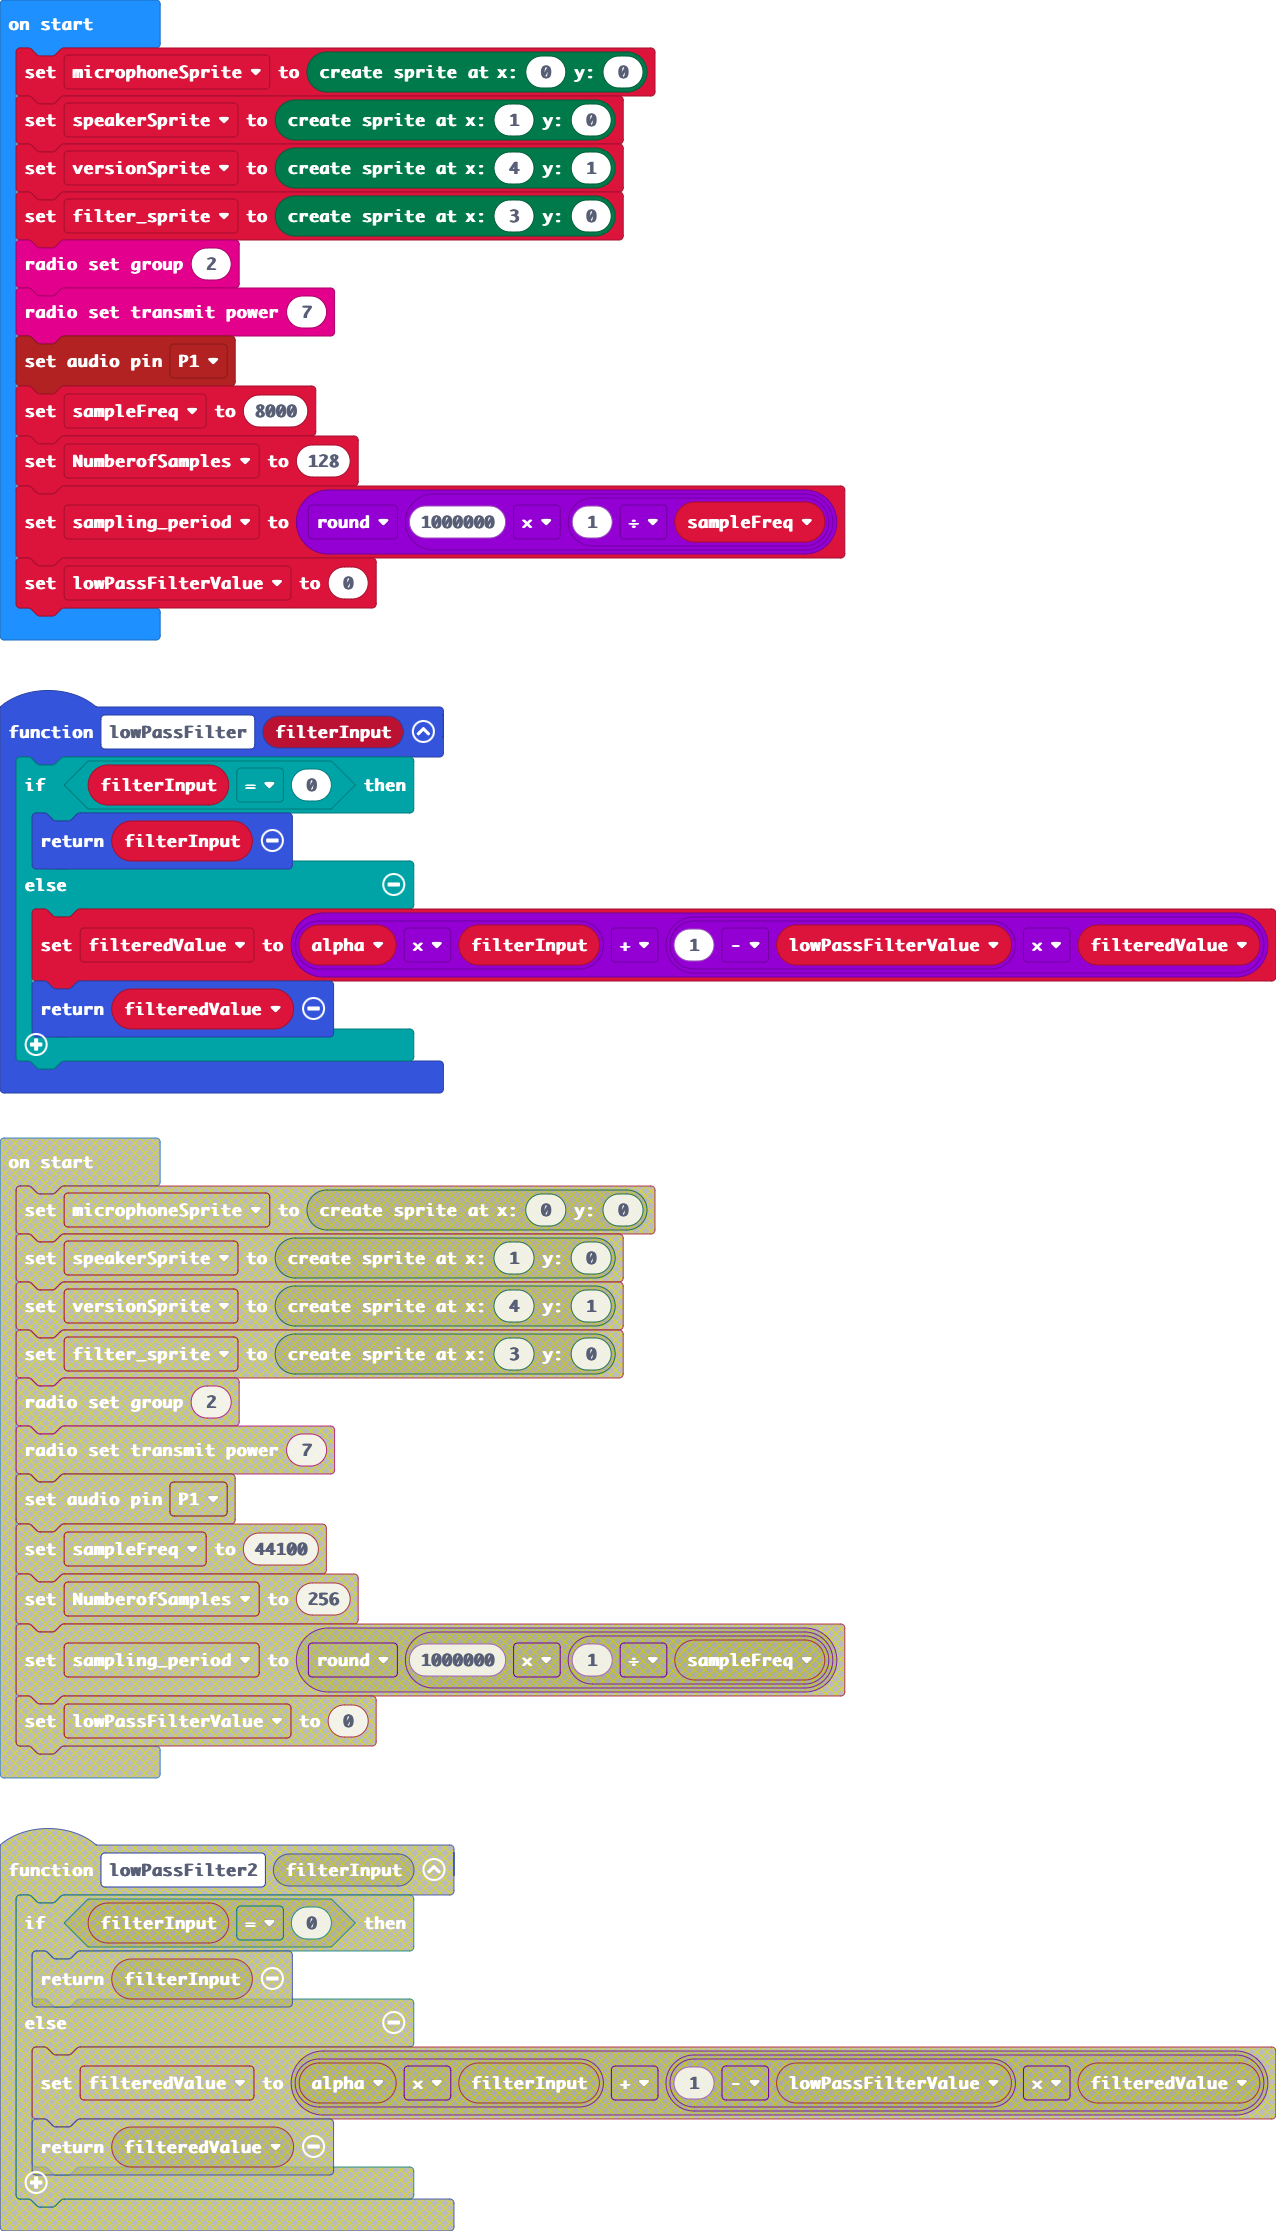
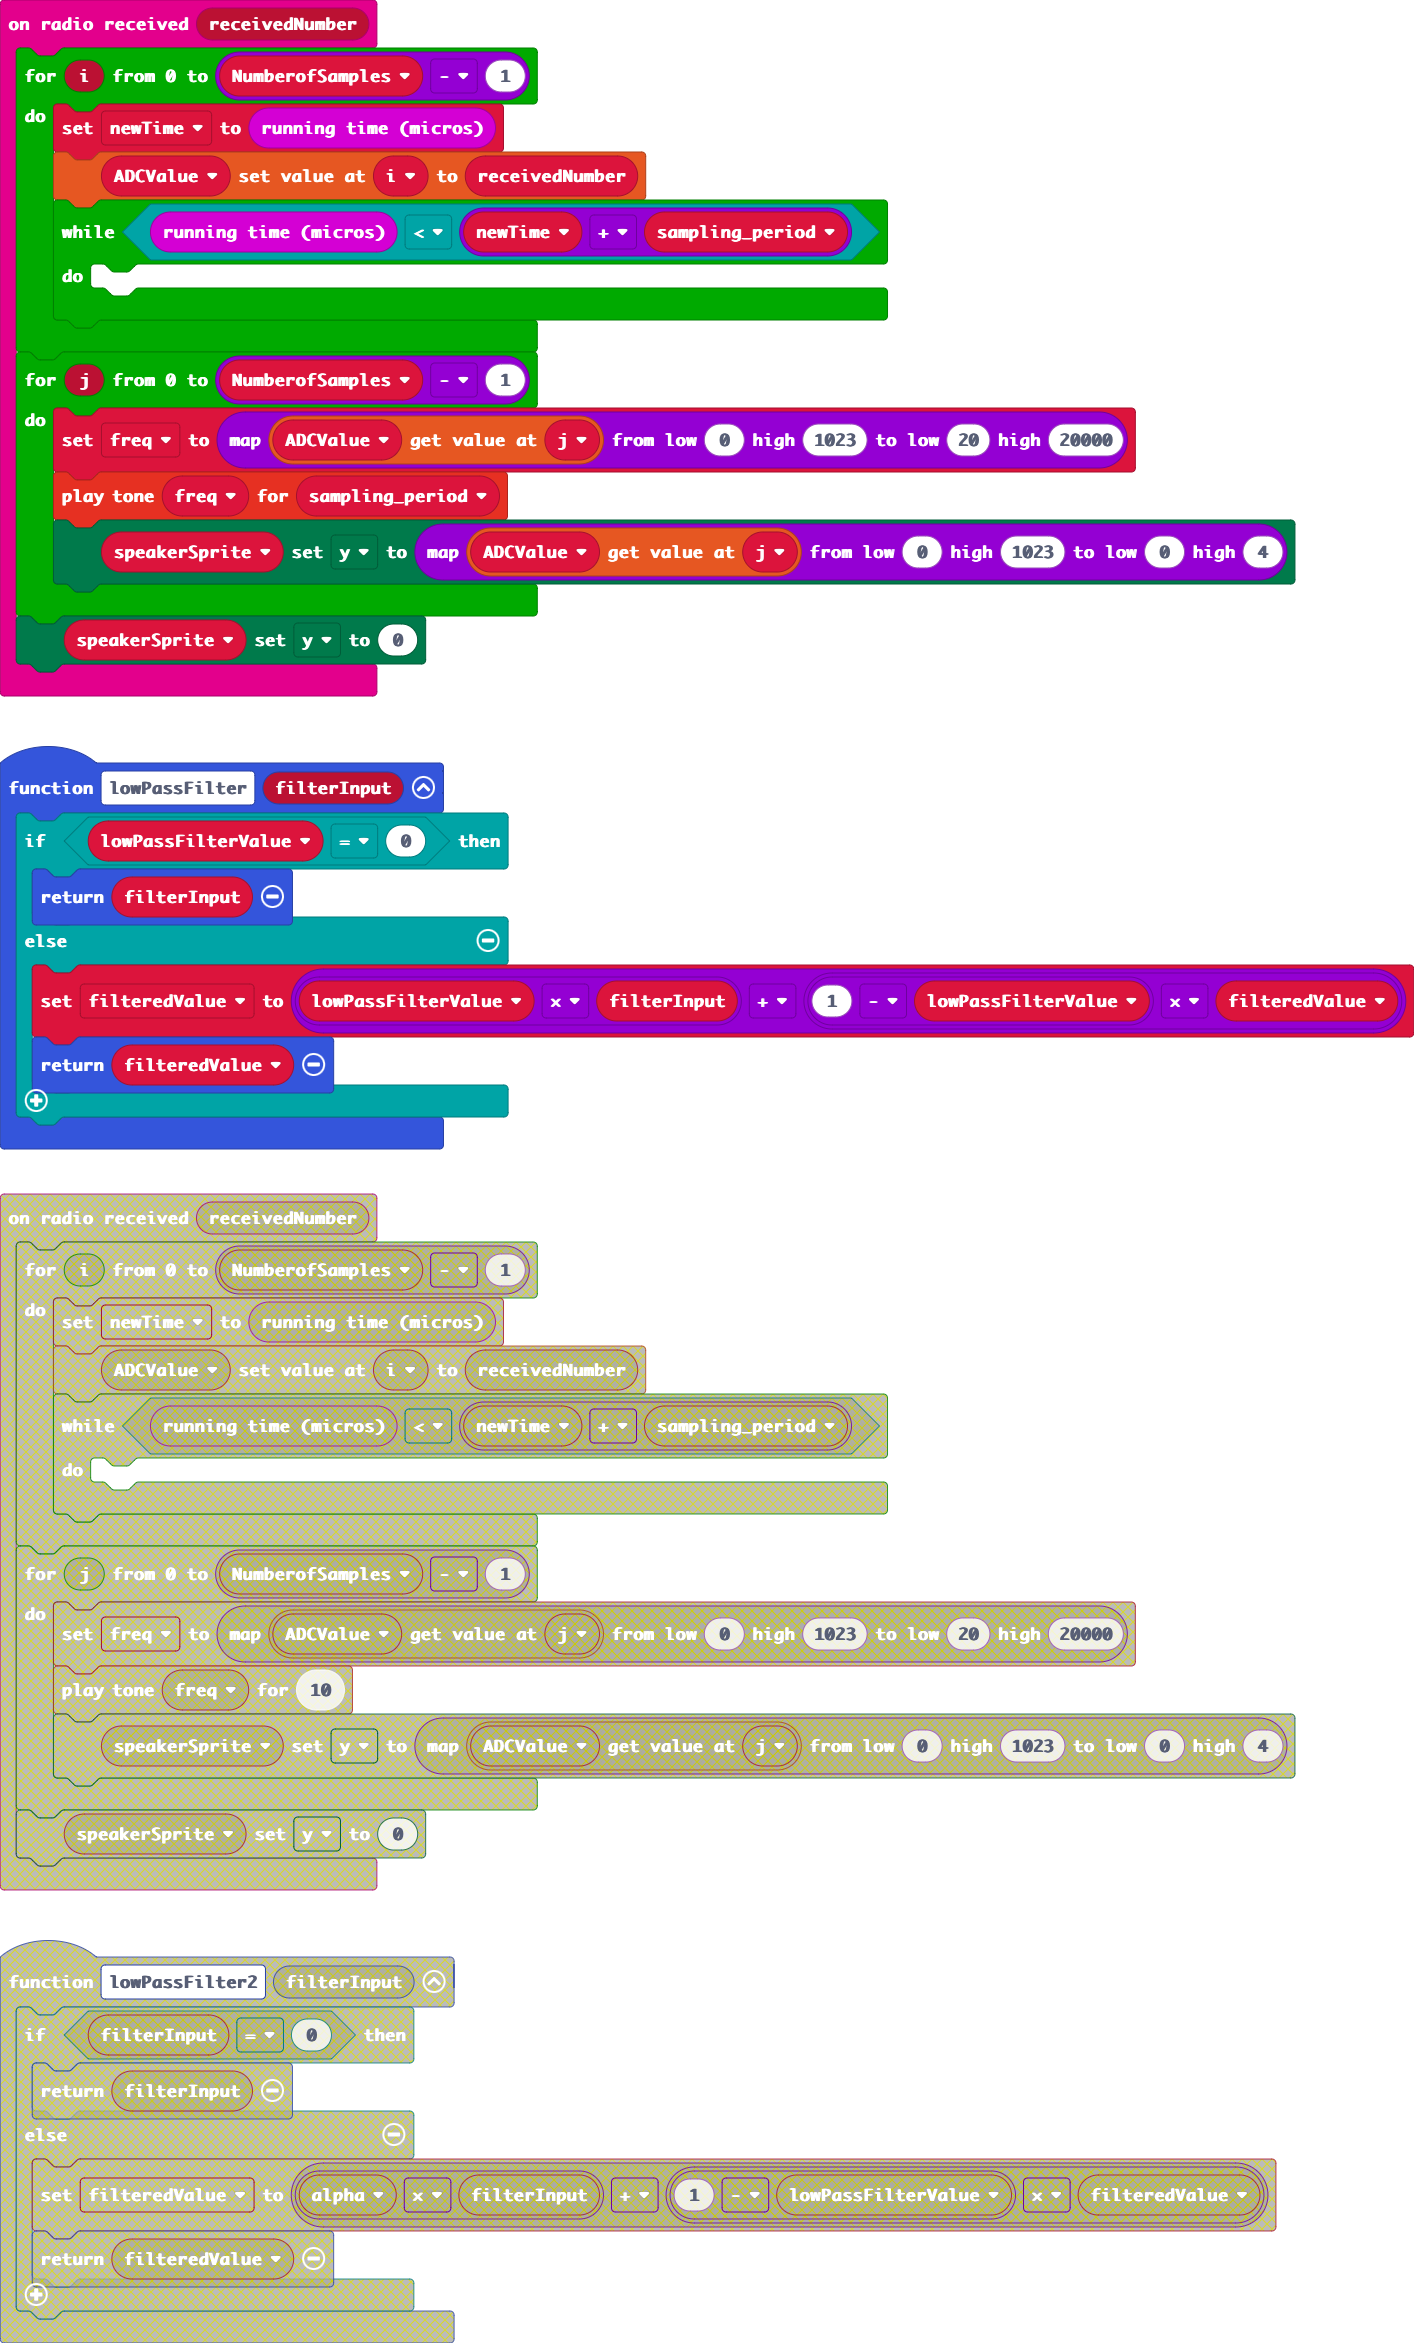
Update pxt.json, main.blocks, main.ts

diff --git a/main.ts b/main.ts
@@ -9,7 +9,7 @@ radio.onReceivedNumber(function (receivedNumber) {
     }
     for (let j = 0; j <= NumberofSamples - 1; j++) {
         freq = Math.map(ADCValue[j], 0, 1023, 20, 20000)
-        music.playTone(freq, 10)
+        music.playTone(freq, sampling_period)
         speakerSprite.set(LedSpriteProperty.Y, Math.map(ADCValue[j], 0, 1023, 0, 4))
     }
     speakerSprite.set(LedSpriteProperty.Y, 0)
